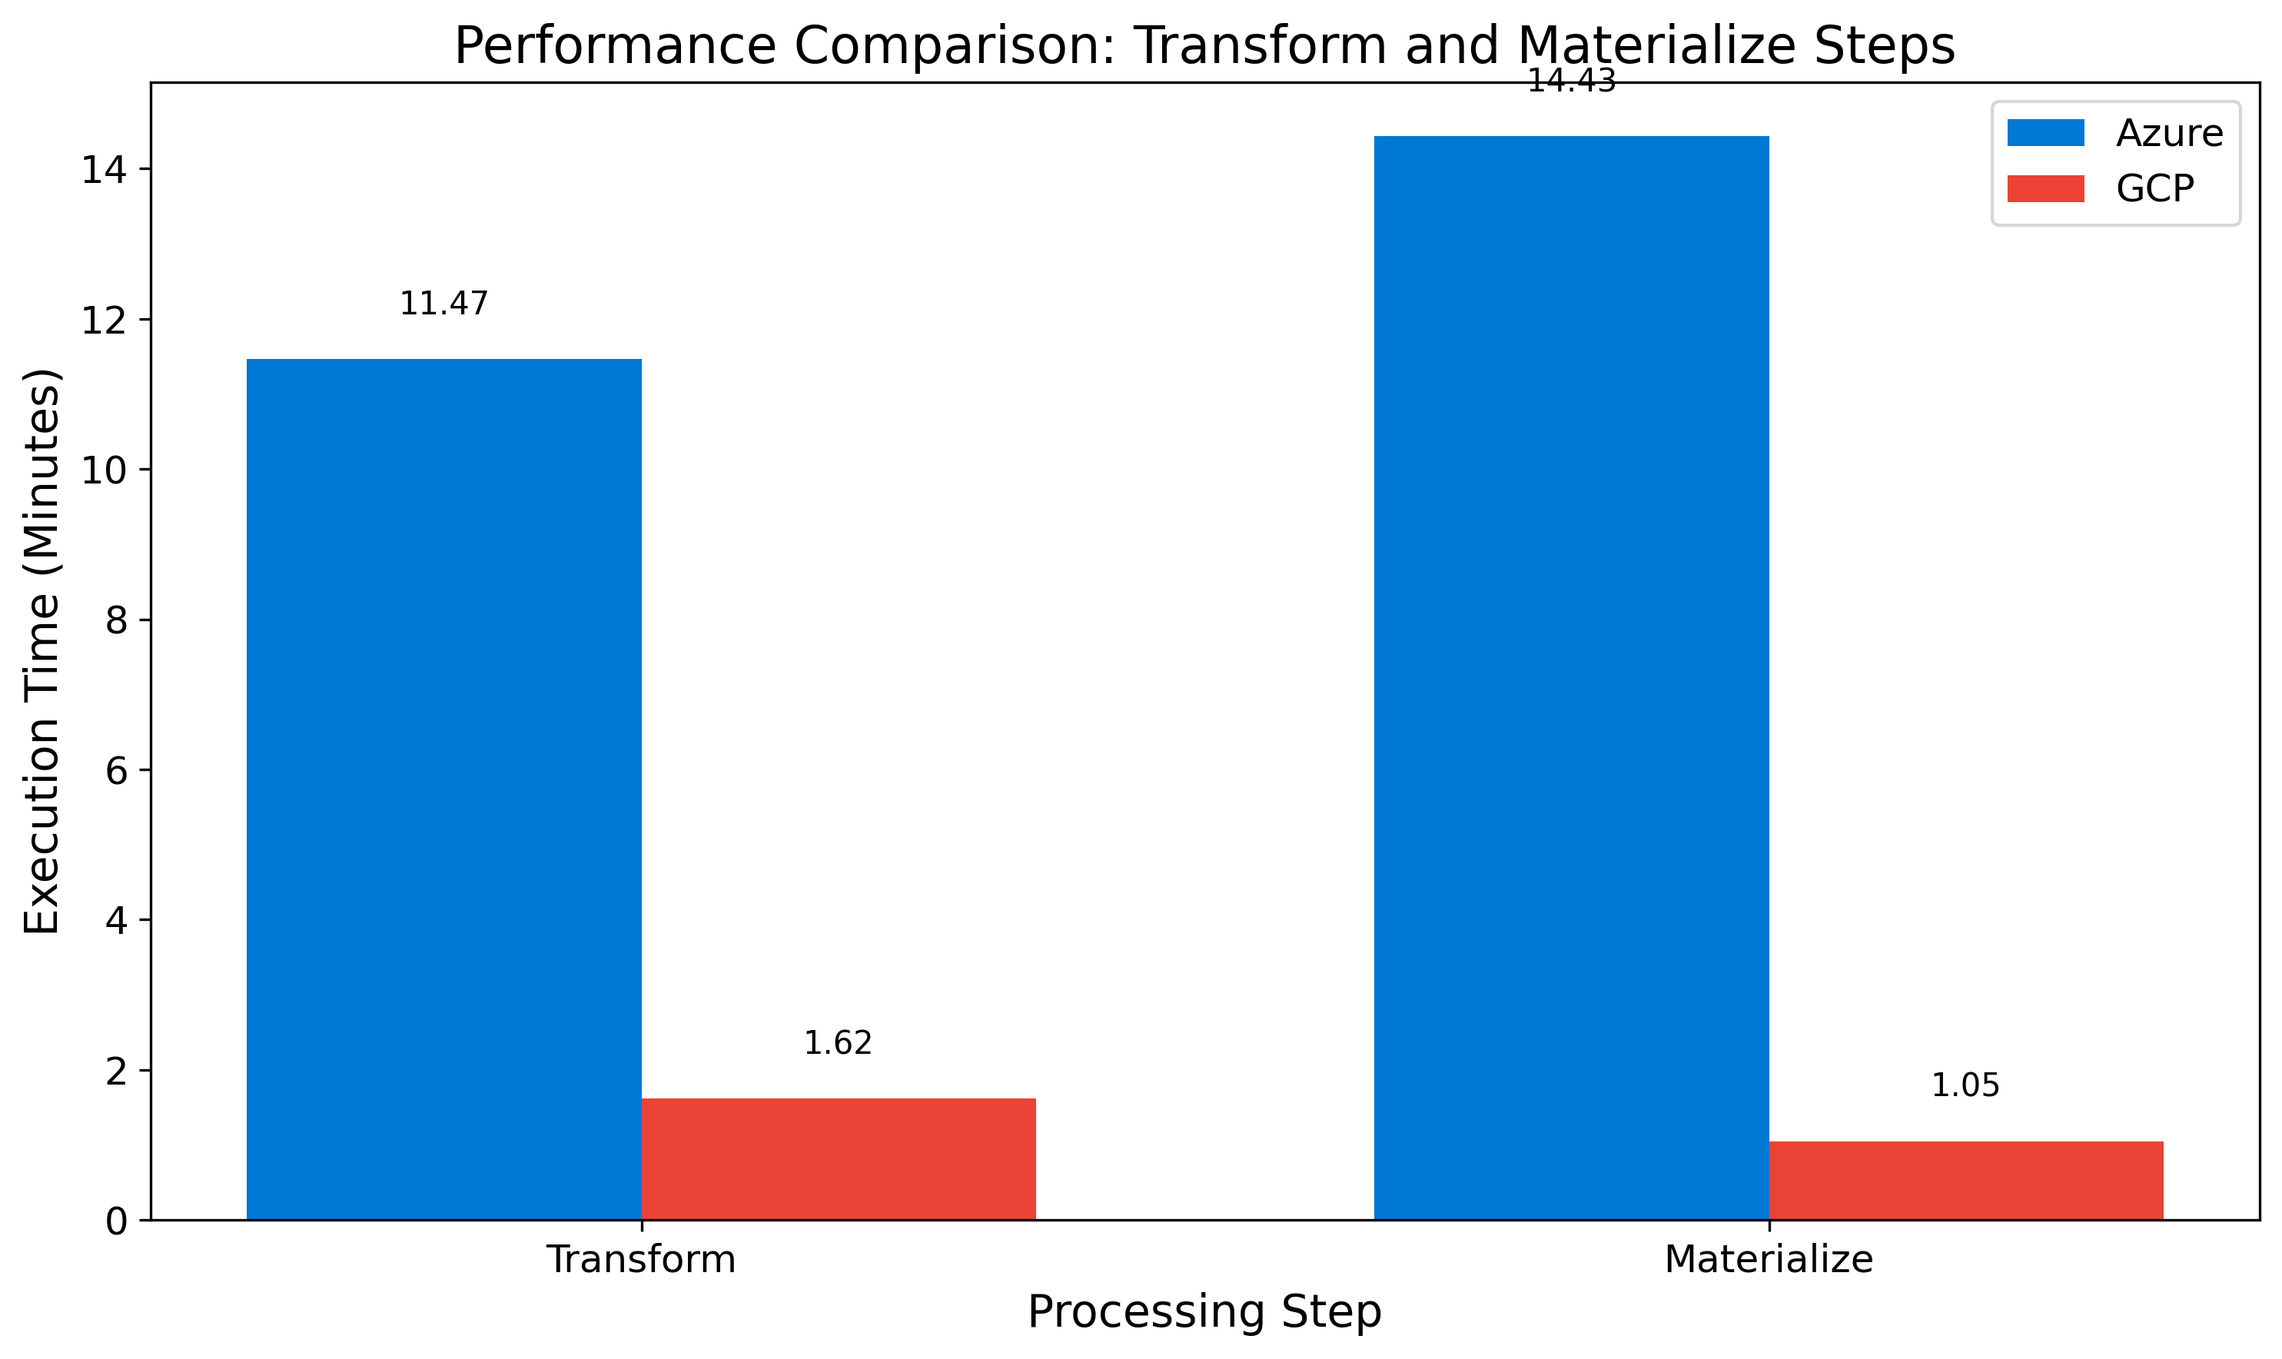
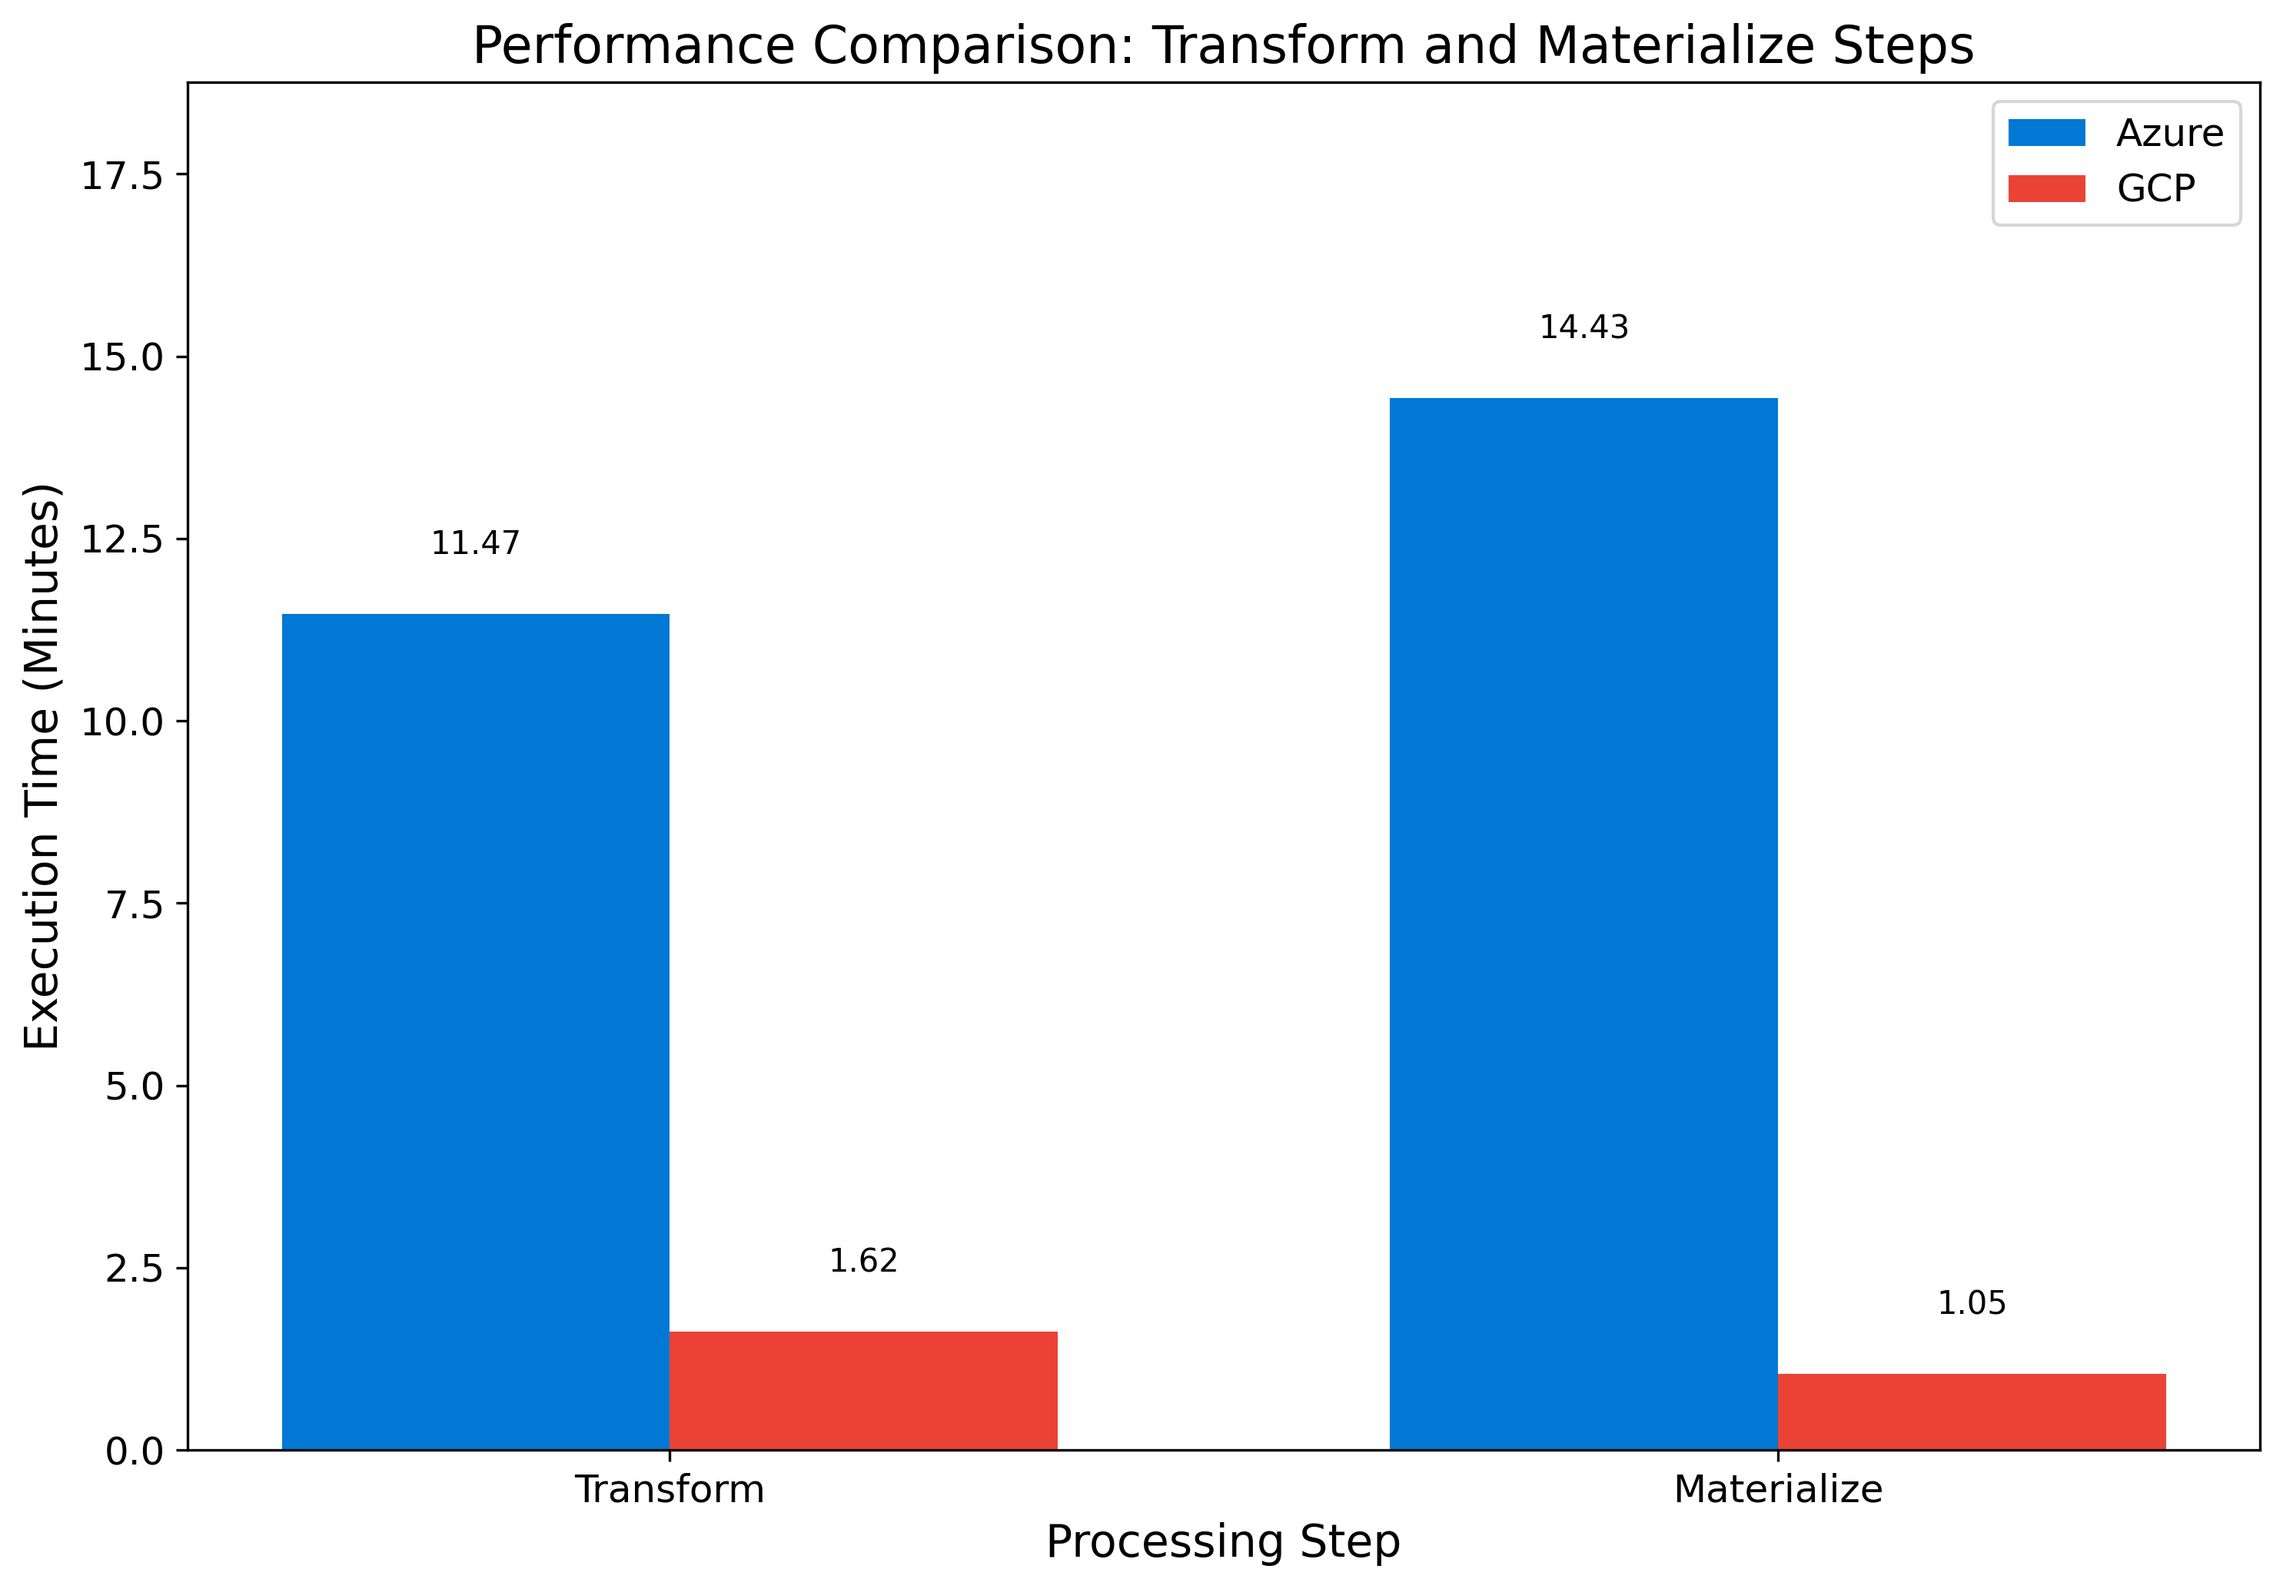
Update bar chart: fix overflow label value in y-axis

diff --git a/create_cost_performance_charts.py b/create_cost_performance_charts.py
@@ -88,29 +88,33 @@ plt.savefig('images/comparison/gcp-cost-breakdown.png', dpi=300, bbox_inches='ti
 plt.close()
 
 # Create performance comparison bar chart (total time)
-plt.figure(figsize=(10, 6))
+plt.figure(figsize=(10, 8))  # Increased height for more space
 x = np.arange(len(labels))
 width = 0.35
 
 # Use more distinct colors for better differentiation
 bar_colors = ['#0078D4', '#EA4335']  # Azure blue, Google red
-plt.bar(x, [azure_total_time, gcp_total_time], width, color=bar_colors)
+bars = plt.bar(x, [azure_total_time, gcp_total_time], width, color=bar_colors)
 plt.xlabel('Cloud Provider', fontsize=14)
 plt.ylabel('Total Execution Time (Minutes)', fontsize=14)
 plt.title('Performance Comparison: Azure vs GCP (Total Minutes)', fontsize=16)
 plt.xticks(x, labels, fontsize=12)
 plt.yticks(fontsize=12)
 
+# Set y-axis limit to leave more room for labels
+max_value = max(azure_total_time, gcp_total_time)
+plt.ylim(0, max_value * 1.2)  # Add 20% more space at the top
+
 # Add value labels on top of bars
 for i, v in enumerate([azure_total_time, gcp_total_time]):
-    plt.text(i, v + 5, f"{v:.2f}", ha='center', fontsize=12)
+    plt.text(i, v + (max_value * 0.03), f"{v:.2f}", ha='center', fontsize=12)
 
 plt.tight_layout()
 plt.savefig('images/comparison/performance-comparison-bar.png', dpi=300, bbox_inches='tight')
 plt.close()
 
 # Create detailed performance breakdown bar chart
-plt.figure(figsize=(12, 7))
+plt.figure(figsize=(12, 9))  # Increased height for more space
 x = np.arange(3)  # 3 operations
 width = 0.35
 
@@ -129,11 +133,16 @@ plt.xticks(x, ['Convert CSV to Parquet', 'Transform', 'Materialize'], fontsize=1
 plt.yticks(fontsize=12)
 plt.legend(fontsize=12)
 
+# Set y-axis limit to leave more room for labels
+max_value = max(azure_convert, azure_transform, azure_materialize, 
+                gcp_convert, gcp_transform, gcp_materialize)
+plt.ylim(0, max_value * 1.15)  # Add 15% more space at the top
+
 # Add value labels on top of bars
 for i, bars in enumerate([azure_bars, gcp_bars]):
     for bar in bars:
         height = bar.get_height()
-        plt.text(bar.get_x() + bar.get_width()/2., height + 2,
+        plt.text(bar.get_x() + bar.get_width()/2., height + (max_value * 0.02),
                 f"{height:.2f}", ha='center', va='bottom', fontsize=10)
 
 plt.tight_layout()
@@ -141,7 +150,7 @@ plt.savefig('images/comparison/performance-breakdown-bar.png', dpi=300, bbox_inc
 plt.close()
 
 # Create a zoomed-in version for transform and materialize steps (excluding the convert step)
-plt.figure(figsize=(10, 6))
+plt.figure(figsize=(10, 7))  # Increased height for more space
 x = np.arange(2)  # 2 operations (transform and materialize)
 width = 0.35
 
@@ -160,11 +169,15 @@ plt.xticks(x, ['Transform', 'Materialize'], fontsize=12)
 plt.yticks(fontsize=12)
 plt.legend(fontsize=12)
 
+# Set y-axis limit to leave more room for labels
+max_value = max(azure_transform, azure_materialize, gcp_transform, gcp_materialize)
+plt.ylim(0, max_value * 1.3)  # Add 30% more space at the top for this chart
+
 # Add value labels on top of bars
 for i, bars in enumerate([azure_bars, gcp_bars]):
     for bar in bars:
         height = bar.get_height()
-        plt.text(bar.get_x() + bar.get_width()/2., height + 0.5,
+        plt.text(bar.get_x() + bar.get_width()/2., height + (max_value * 0.05),
                 f"{height:.2f}", ha='center', va='bottom', fontsize=10)
 
 plt.tight_layout()
